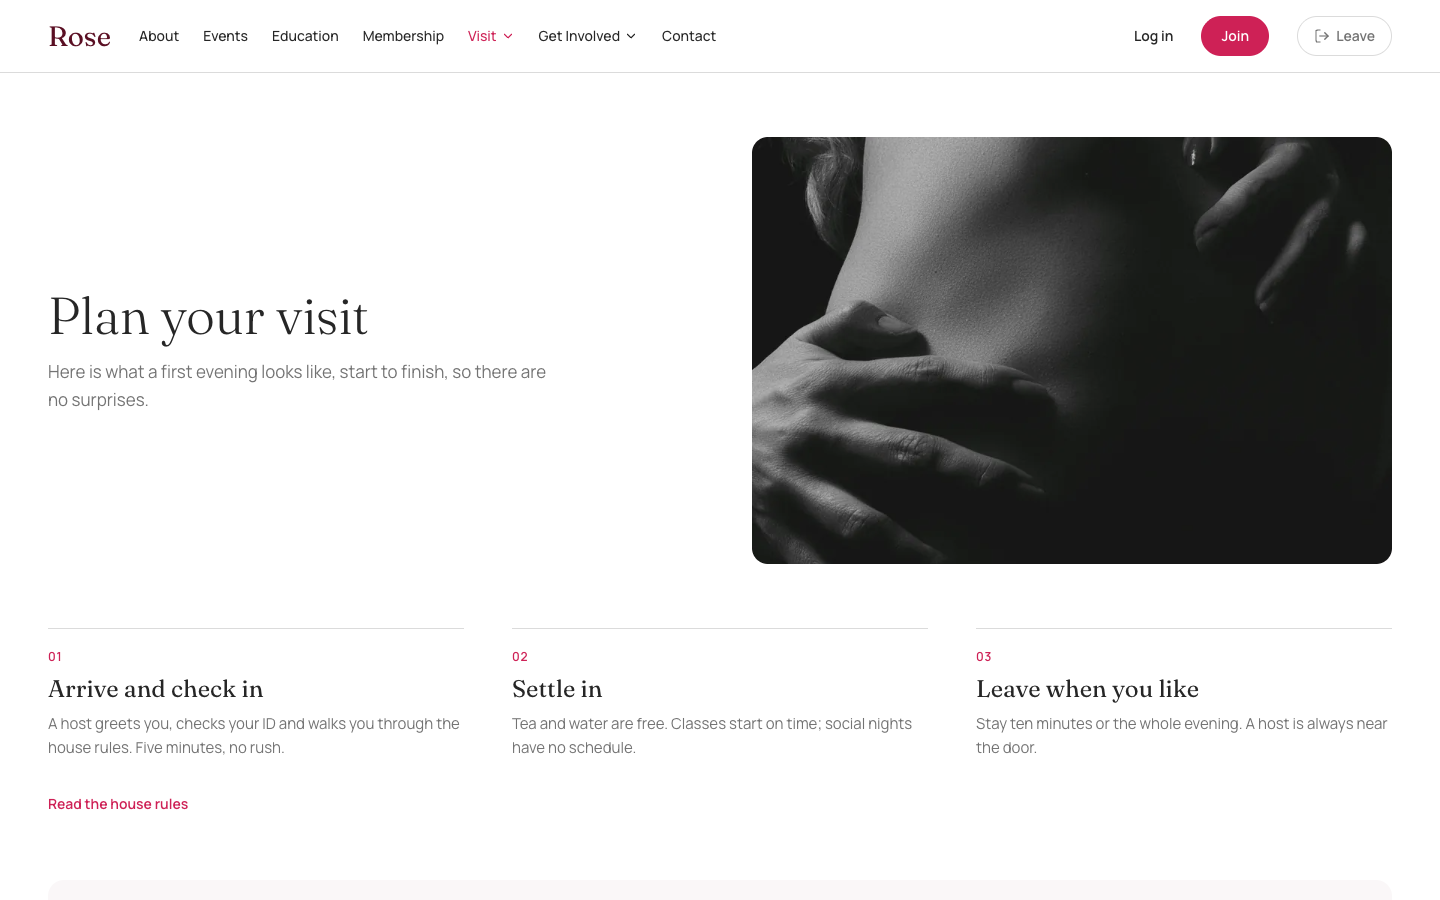
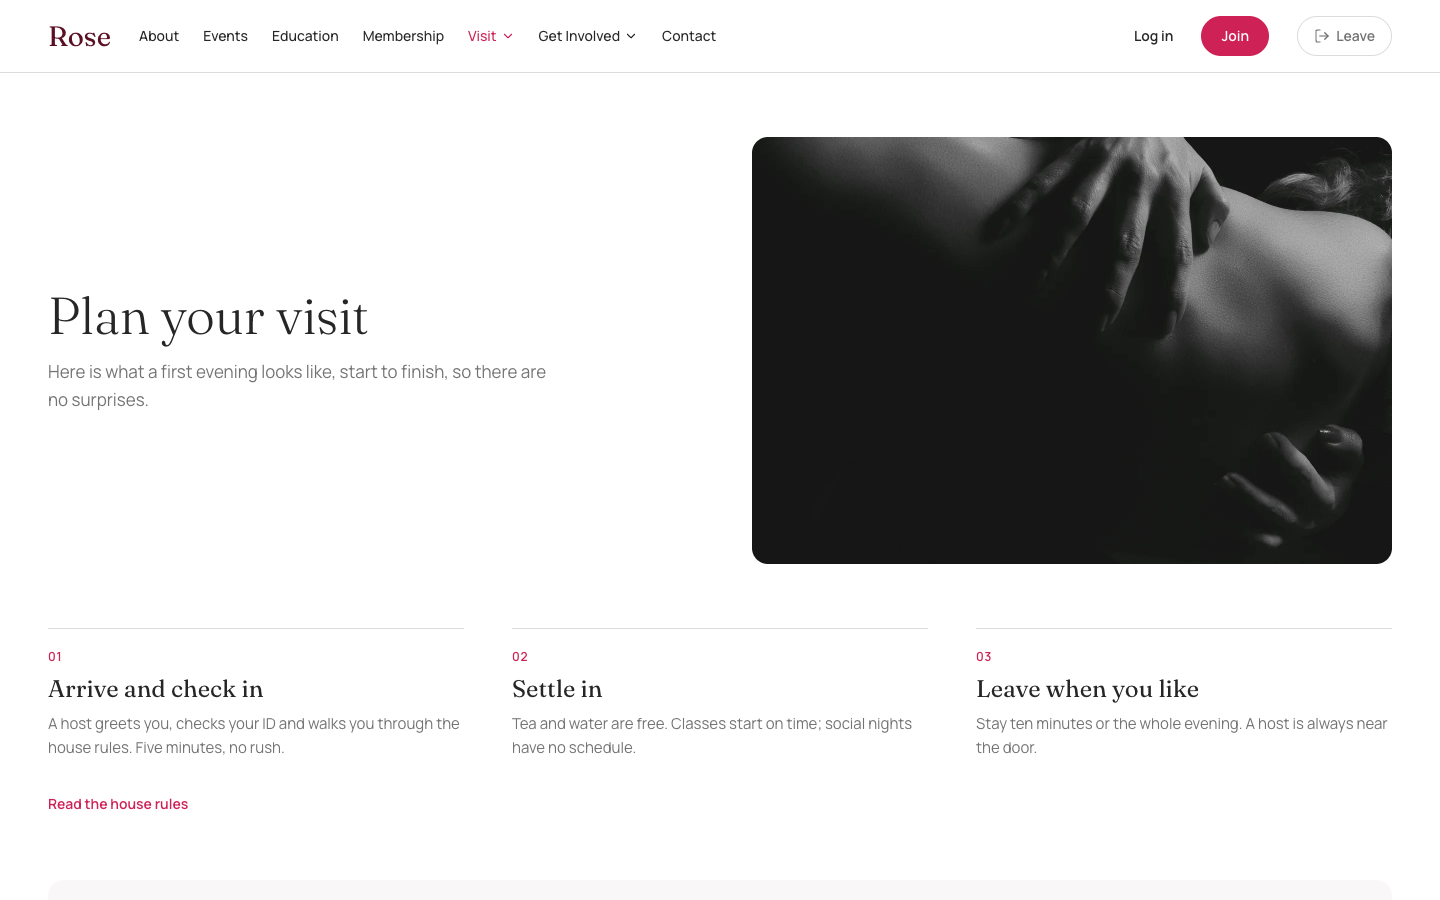
Turn the Plan Your Visit photograph 90 degrees clockwise
As a 3:2 landscape it fills the hero frame, so the focus option added for
the portrait version is no longer needed and is removed.

Changed region(s): [[0.5, 0.1244, 0.9688, 0.5911], [0.8438, 0.4667, 0.9688, 0.6222], [0.5312, 0.5911, 0.5625, 0.6222]]

diff --git a/frontend/src/components/content/PageHero.tsx b/frontend/src/components/content/PageHero.tsx
@@ -15,8 +15,6 @@ interface PageHeroProps {
   image?: string
   remoteImage?: RemoteImage | null
   ratio?: AspectRatio
-  /** Which part of the picture shows in the frame (an `object-[x_y]` class). */
-  imagePosition?: string
   placeholder?: PlaceholderTexture
   /** Something at the right end of the title row, like the List / Month switch. */
   aside?: ReactNode
@@ -30,7 +28,7 @@ interface PageHeroProps {
  * "Contact"): the title in Fraunces 300 at 52px (36 on phones) and a muted lead. With a
  * picture it becomes two columns, the picture on the right.
  */
-export function PageHero({ copy, prefix = 'hero', title, lede, image, remoteImage, ratio = '3/2', imagePosition, placeholder = 'rose', aside, phoneLede = true, children }: PageHeroProps) {
+export function PageHero({ copy, prefix = 'hero', title, lede, image, remoteImage, ratio = '3/2', placeholder = 'rose', aside, phoneLede = true, children }: PageHeroProps) {
   const loading = copy?.status === 'loading'
   const withImage = Boolean(image || remoteImage)
   const heading = (
@@ -65,7 +63,7 @@ export function PageHero({ copy, prefix = 'hero', title, lede, image, remoteImag
           {leadText}
           {children}
         </div>
-        <ImageFrame image={image} remote={remoteImage} alt="" ratio={ratio} position={imagePosition} placeholder={placeholder} priority className="hidden rounded-card lg:block" sizes="(min-width: 1024px) 50vw, 100vw" />
+        <ImageFrame image={image} remote={remoteImage} alt="" ratio={ratio} placeholder={placeholder} priority className="hidden rounded-card lg:block" sizes="(min-width: 1024px) 50vw, 100vw" />
       </div>
     )
   }

diff --git a/frontend/src/components/ui/ImageFrame.tsx b/frontend/src/components/ui/ImageFrame.tsx
@@ -33,8 +33,6 @@ interface ImageFrameProps {
   fill?: boolean
   /** Member images: no right-click save, no drag, no long-press callout. A deterrent only. */
   protect?: boolean
-  /** Which part of a picture the frame keeps, as a Tailwind class (e.g. `object-[50%_15%]`). */
-  position?: string
 }
 
 const PROTECTED_CLASSES = 'select-none [-webkit-touch-callout:none] [-webkit-user-drag:none]'
@@ -59,7 +57,6 @@ export function ImageFrame({
   className,
   fill = false,
   protect = false,
-  position,
 }: ImageFrameProps) {
   const [failed, setFailed] = useState(false)
   const local = image ? resolveImage(image) : null
@@ -77,7 +74,7 @@ export function ImageFrame({
         loading={priority ? 'eager' : 'lazy'}
         decoding="async"
         onError={() => setFailed(true)}
-        className={cn('absolute inset-0 size-full object-cover', position)}
+        className="absolute inset-0 size-full object-cover"
       />
     )
   } else if (!failed && remote) {

diff --git a/frontend/src/pages/VisitPage.tsx b/frontend/src/pages/VisitPage.tsx
@@ -94,8 +94,7 @@ export function VisitPage() {
 
   return (
     <>
-      {/* The owner's photograph (photos/Plan.jpeg), framed on the two hands. */}
-      <PageHero copy={copy} image="visit-plan.webp" imagePosition="object-[50%_15%]" placeholder="rose" />
+      <PageHero copy={copy} image="visit-plan.webp" placeholder="rose" />
 
       <section aria-labelledby="expect" className={cn('mx-auto max-w-[1440px] pb-6 lg:pb-16', GUTTER)}>
         <Copy copy={copy} k="expect.title" as="h2" id="expect" className="sr-only" />

diff --git a/docs/decisions.md b/docs/decisions.md
@@ -620,5 +620,5 @@ Prompt 01 decisions come first (1 to 47); prompt 02 and its review addendum foll
 
 392. The development `runserver` (`apps/core/management/commands/runserver.py`) applies unapplied migrations before it starts and again on every reload after a code change, prints a red WARNING naming any it could not apply, and warns when no membership tiers are on offer. The cause was the dev API container, which migrated only when it started: after prompt 09's models loaded through the code reloader, `/api/membership/tiers/` failed on a missing column until someone ran `migrate` by hand. `apps.core` now sits before `django.contrib.staticfiles` in `INSTALLED_APPS` so this `runserver` is the one Django uses; it still serves static files. `--skip-migrate` turns it off; nothing changes with DEBUG off.
 393. `/membership` shows "Membership plans are not online yet" when no tiers are on offer, rather than an empty page; "did not load" is kept for a failed request.
-394. The Plan Your Visit hero shows the owner's photograph (`photos/Plan.jpeg`), processed by `scripts/fetch_images.py` into `visit-plan.webp` (metadata stripped, 427 to 1280px wide) and recorded in the manifest with `faces_visible` false, since no face shows. It is a portrait picture in the design's 3:2 frame, so `ImageFrame` gained a `position` class (`PageHero`'s `imagePosition`) and the frame keeps the two hands (`object-[50%_15%]`). As on every page hero, the picture shows from 1024px; phones show the title alone. The Guests page keeps its own placeholder. The original is not committed (`/photos/` is ignored).
+394. The Plan Your Visit hero shows the owner's photograph (`photos/Plan.jpeg`), turned 90° clockwise at the owner's request, which makes it a 3:2 landscape that fills the design's 3:2 frame. It was processed by `scripts/fetch_images.py` into `visit-plan.webp` (metadata stripped, 640 to 1920px wide) and recorded in the manifest with `faces_visible` false, since no face shows. As on every page hero, the picture shows from 1024px; phones show the title alone. The Guests page keeps its own placeholder. The original is not committed (`/photos/` is ignored).
 
